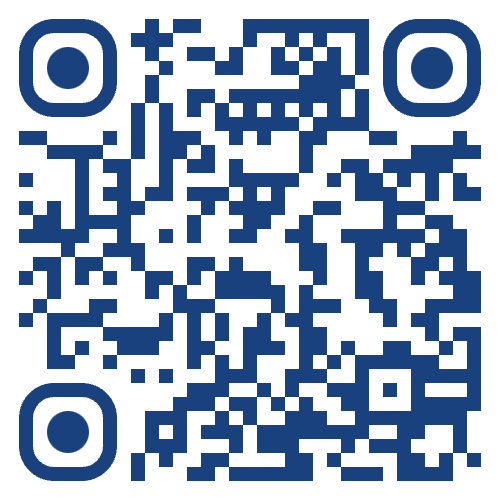
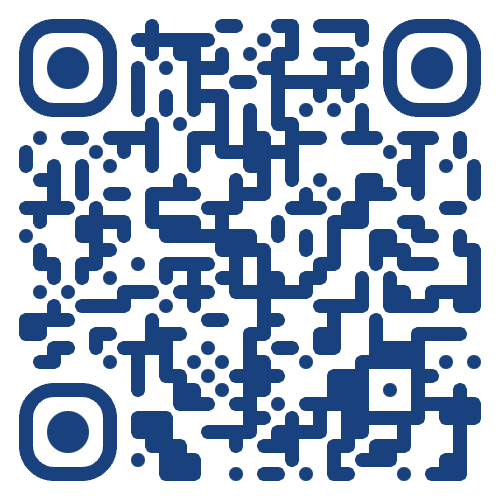
Add new qrcode | add godword

diff --git a/components/portfolio/Header.tsx b/components/portfolio/Header.tsx
@@ -25,7 +25,15 @@ const Header = () => {
       </Link>
       <div className='flex flex-col lg:flex-row gap-6 items-start'>
         <div className='header-details flex flex-col items-center sm:items-start gap-2 flex-1'>
-          <h2 className='text-2xl sm:text-4xl font-bold text-violet-600 dark:text-blue-500 dark:text-opacity-80'>Messeroux Jean H.</h2>
+          <h2 className='text-2xl sm:text-4xl font-bold text-violet-600 dark:text-blue-500 dark:text-opacity-80'>
+            <span>Messeroux Jean H. {'    '}</span>
+
+            <Link href={'#GodsWord'} className='text-sm text-pink-500 font-normal dark:text-gray-400 hover:underline'>
+              <span>
+                {'    '} John 3:16 <div className='animate-bounce inline-block'>&darr;</div>
+              </span>
+            </Link>
+          </h2>
           <p className='text-base text-center sm:text-left bg-red-300d text-balance'>
             Co-Founder and CTO at{' '}
             <Link className='text-pink-500 dark:text-pink-500 hover:underline' href={'https://dooke.app'} target='_blank'>
@@ -34,7 +42,7 @@ const Header = () => {
             , Software Engineer with 5+ years of experience in full-stack development. I excel in delivering high-quality solutions,
             leveraging innovative technologies, and driving successful collaborations.
           </p>
-          <div className='flex items-center flex-wrap gap-4 mt-3'>
+          <div className='flex items-center justify-center flex-wrap gap-4 mt-3'>
             <a
               href='/assets/docs/cv.pdf'
               download
@@ -44,6 +52,15 @@ const Header = () => {
               <span>Resume/CV</span>
             </a>
             <LinkedIn />
+            <a
+              href='mailto:jhmcode.dev@gmail.com'
+              className='py-2 px-3.5 flex  text-center flex-auto justify-center items-center group gap-2 duration-700 transition-all  bg-slate-50 dark:bg-slate-800 text-gray-900 hover:bg-violet-100  dark:text-white outline-none rounded dark:hover:bg-slate-900 dark:hover:text-white'
+            >
+              <span>{`Let's talk`}</span>
+              <span className='group-hover:opacity-90 transition-all animate-pulse dark:text-white text-slate-600  duration-1000 opacity-10'>
+                &rarr;
+              </span>
+            </a>
           </div>
         </div>
         <div className='relative download-dooke-links w-full lg:max-w-[250px] bg-white dark:bg-slate-800 shadow-1 dark:shadow p-4 rounded-xl flex flex-col items-center justify-center'>

diff --git a/components/portfolio/Footer.tsx b/components/portfolio/Footer.tsx
@@ -49,6 +49,15 @@ const Footer = () => {
           <Image src={'/assets/images/dookeapp.png'} alt='Dooke App' className='mt-4' width={150} height={150} />
         </div>
       </div>
+      <div
+        id='GodsWord'
+        className='flex flex-col bg-white shadow-1 p-4 rounded-xl w-full sm:max-w-[420px] dark:bg-gray-900 dark:shadow m-8'
+      >
+        <span className='font-bold'>John 3:16 NIV</span>
+        <div className='text-balance'>
+          For God so loved the world that he gave his one and only Son, that whoever believes in him shall not perish but have eternal life.
+        </div>
+      </div>
     </footer>
   )
 }

diff --git a/components/portfolio/Recommendations.tsx b/components/portfolio/Recommendations.tsx
@@ -52,7 +52,7 @@ const Recommendations = ({ data }: { data: IReview[]; showAll: boolean }) => {
         className='scroller'
         data-speed='slow'
         // @ts-expect-error
-        style={{ '--_animation-duration': '100s' }}
+        style={{ '--_animation-duration': '90s' }}
       >
         <div className='scroller__inner pauseable  my-6 '>
           <div className='flex  gap-8 justify-start items-start  p-4'>
